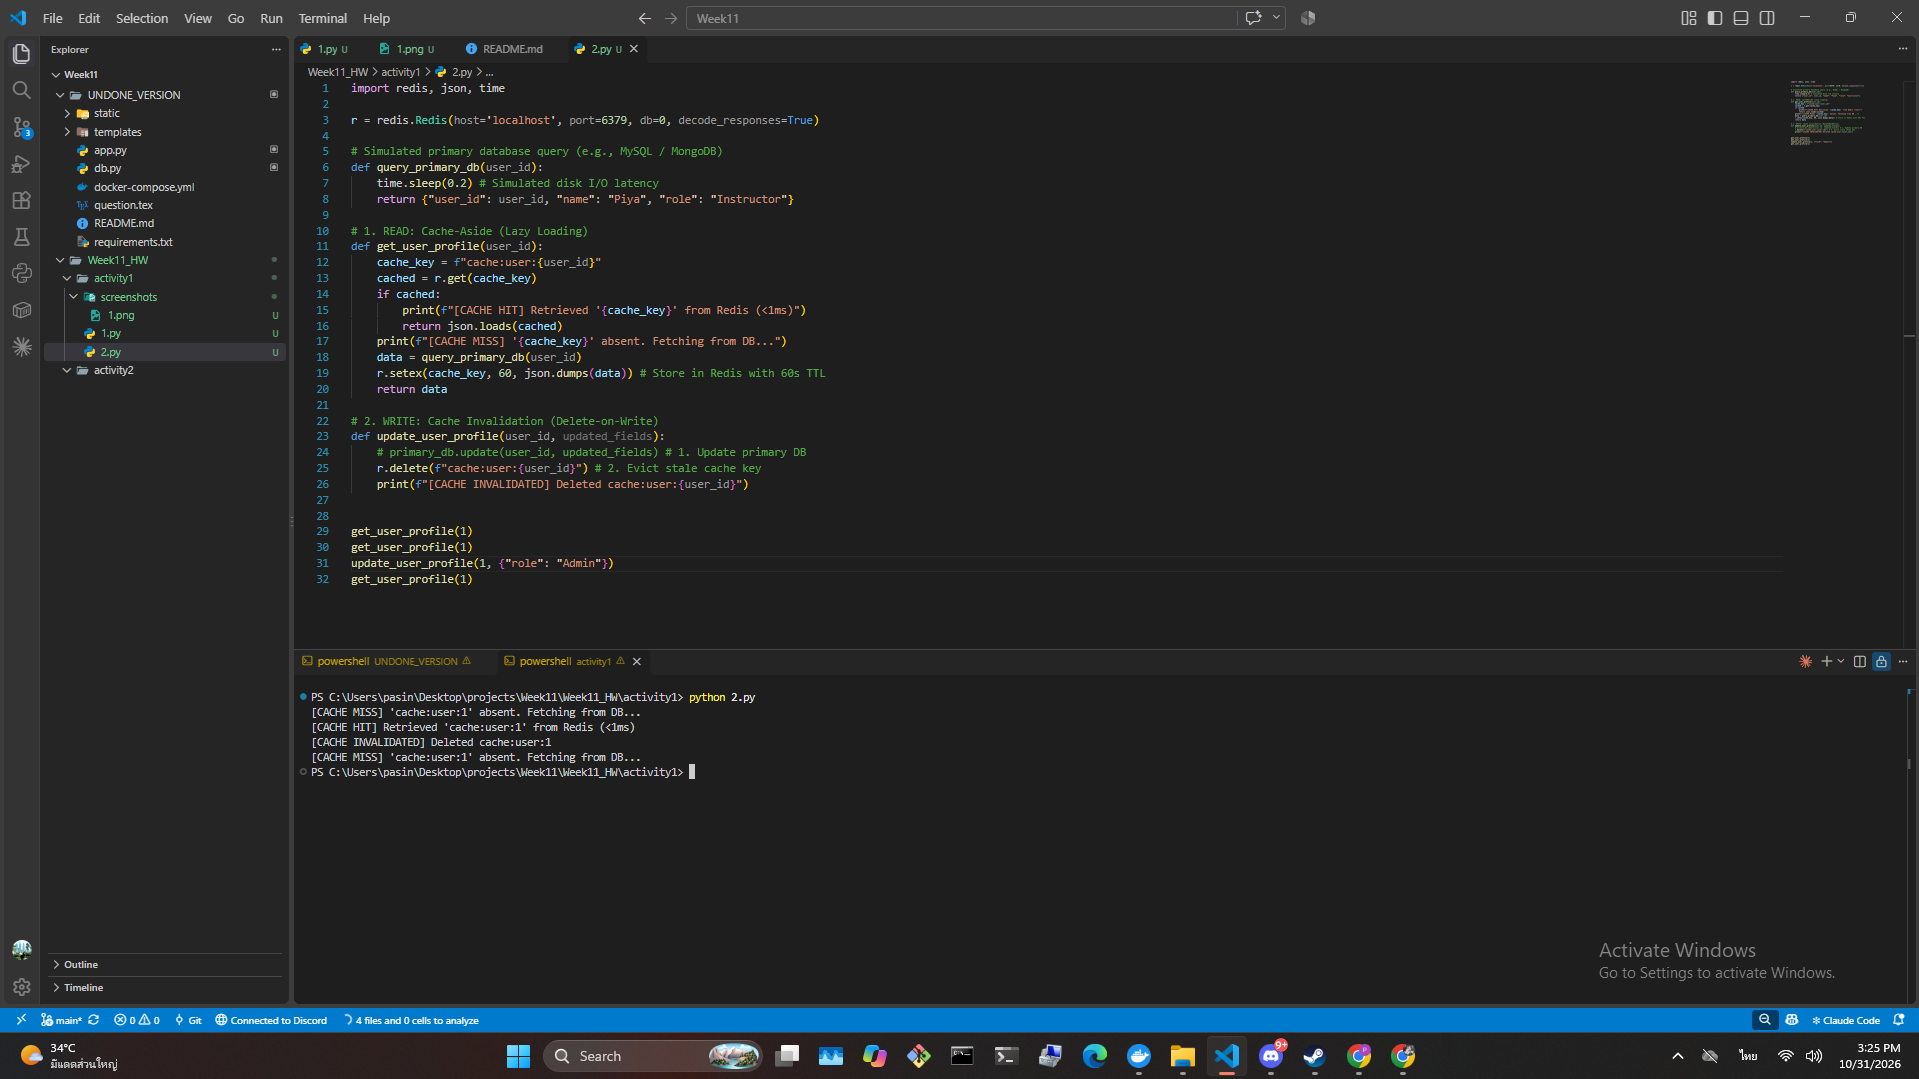
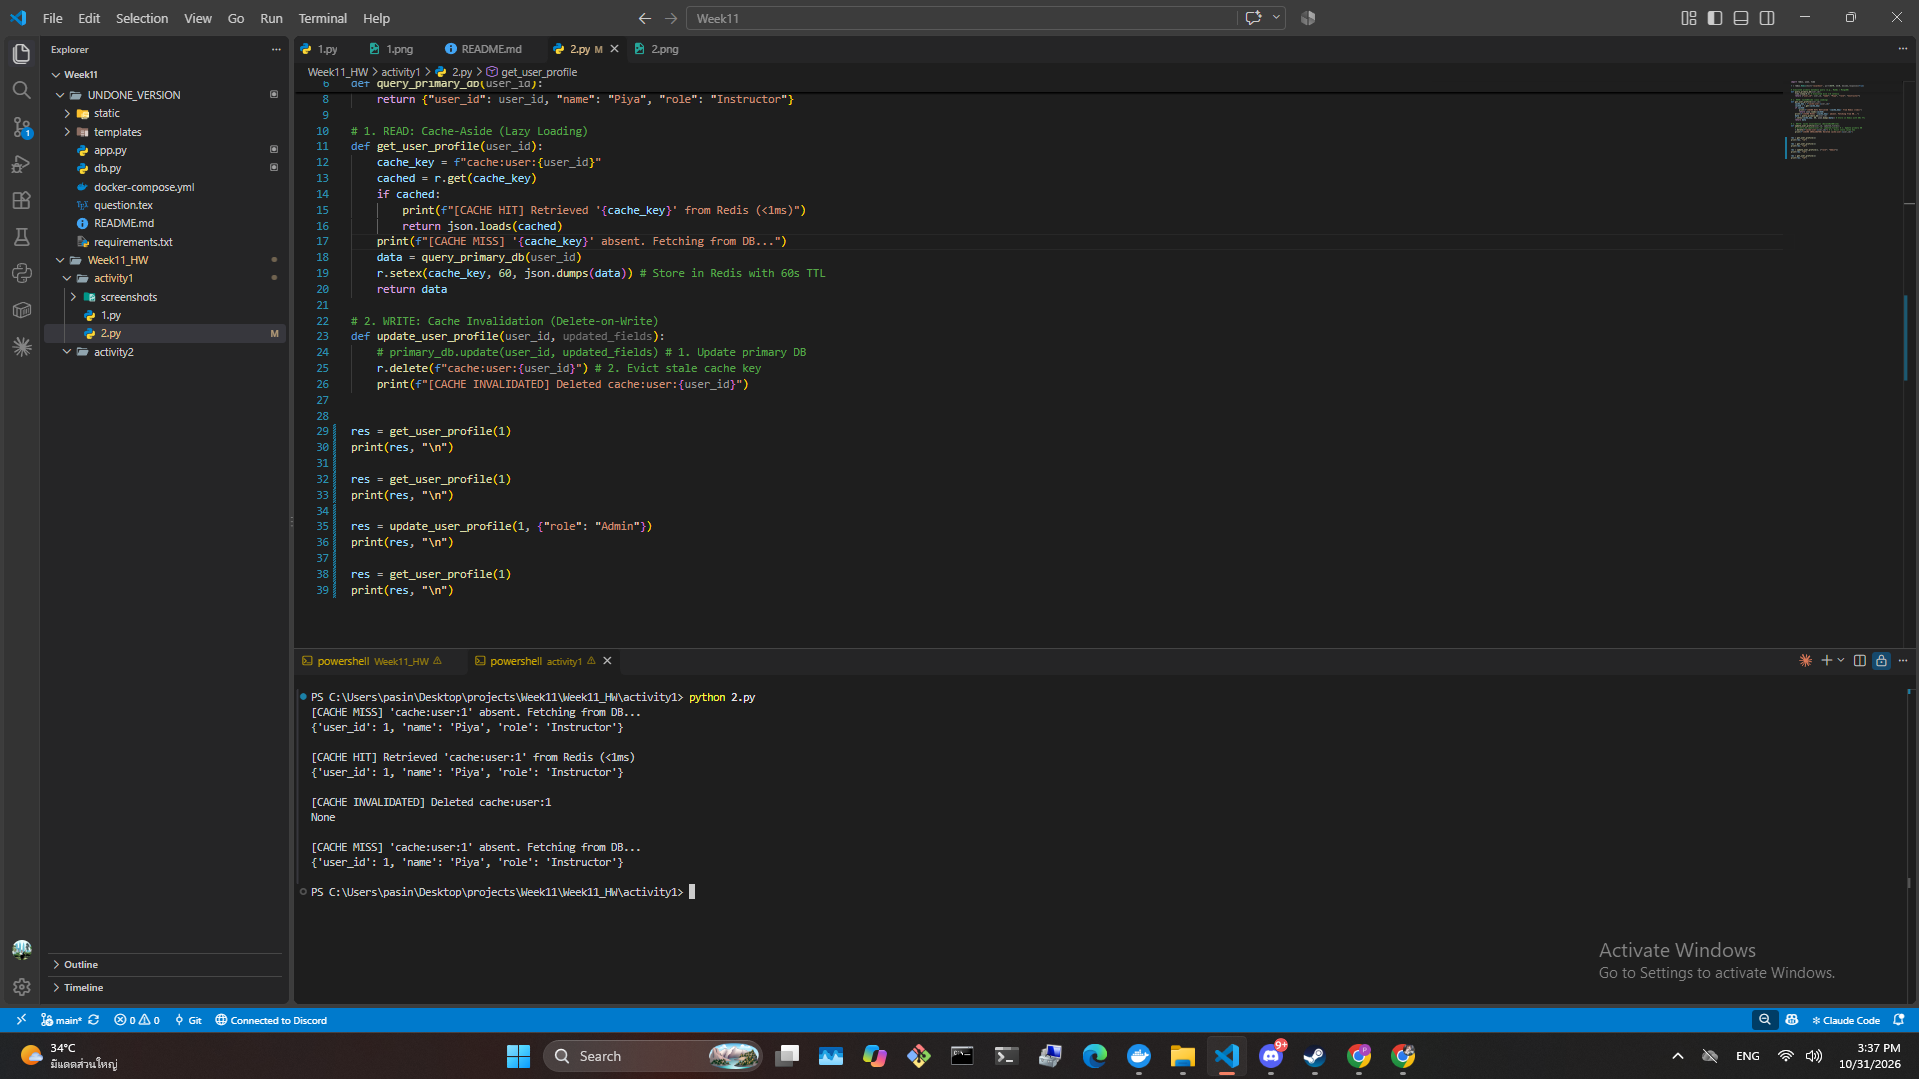
REFACTOR: print output too (activity1)

diff --git a/activity1/2.py b/activity1/2.py
@@ -26,7 +26,14 @@ def update_user_profile(user_id, updated_fields):
     print(f"[CACHE INVALIDATED] Deleted cache:user:{user_id}")
 
 
-get_user_profile(1)
-get_user_profile(1)
-update_user_profile(1, {"role": "Admin"})
-get_user_profile(1)  
+res = get_user_profile(1)
+print(res, "\n")
+
+res = get_user_profile(1)
+print(res, "\n")
+
+res = update_user_profile(1, {"role": "Admin"})
+print(res, "\n")
+
+res = get_user_profile(1)  
+print(res, "\n")
